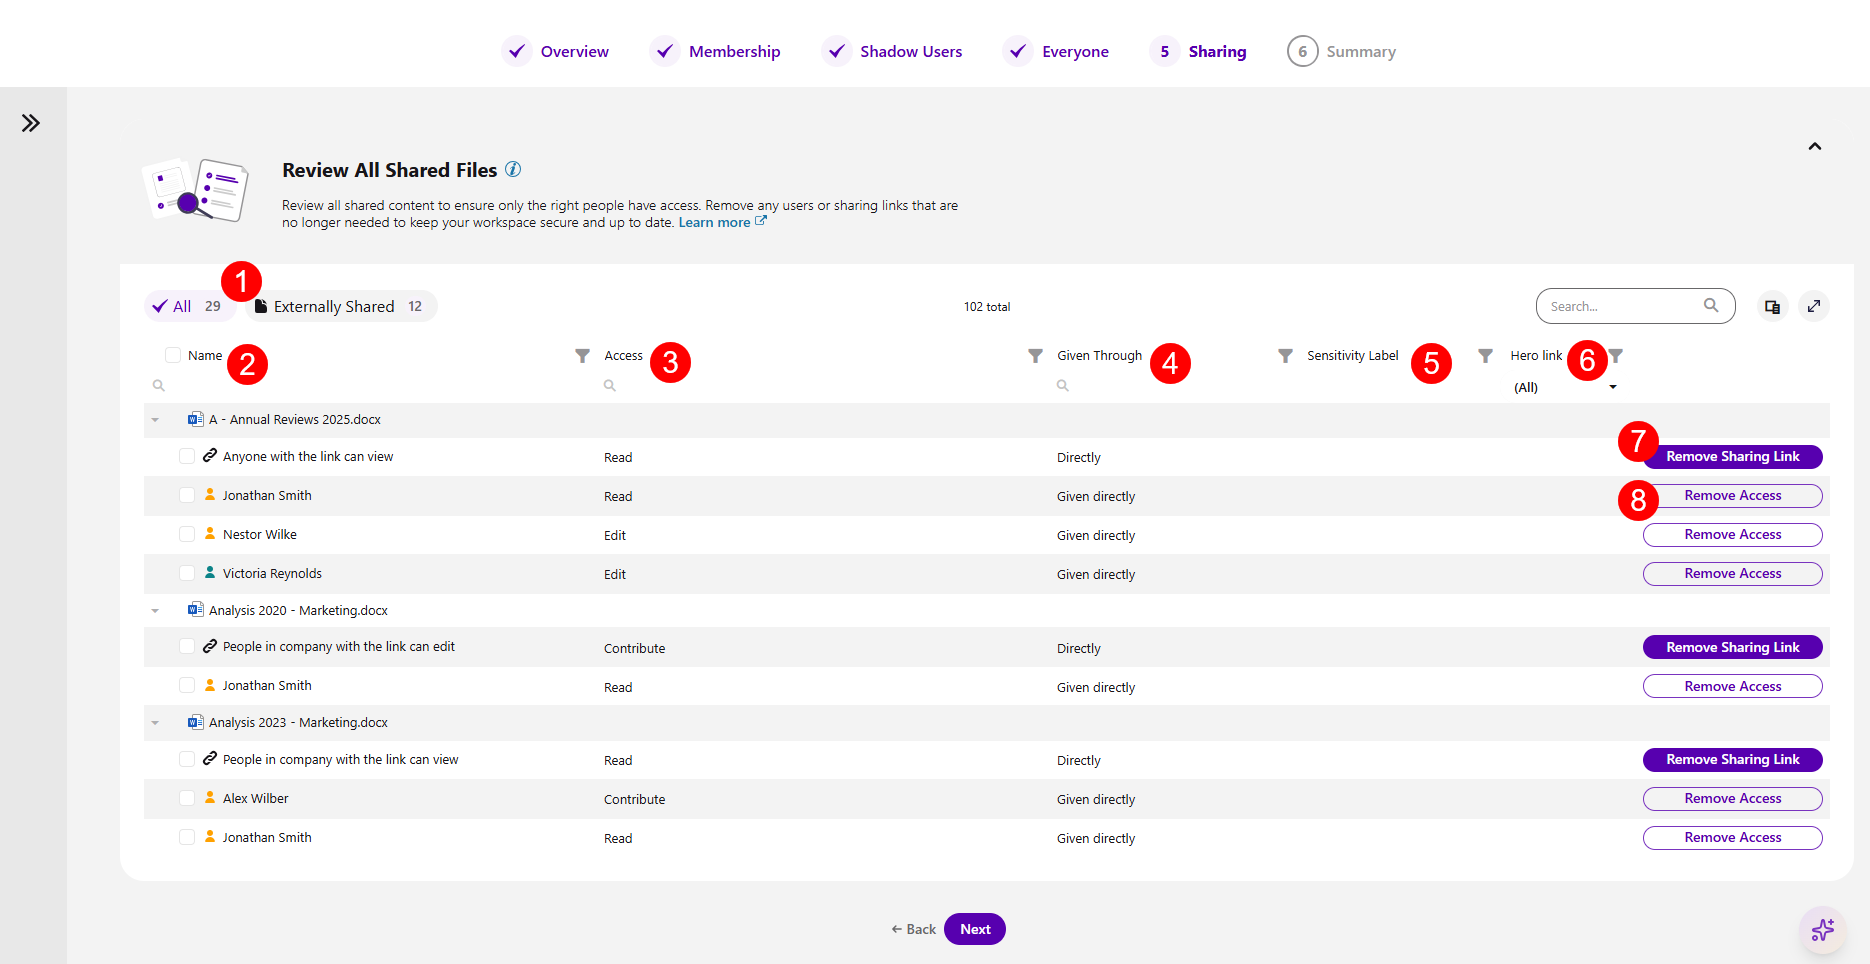
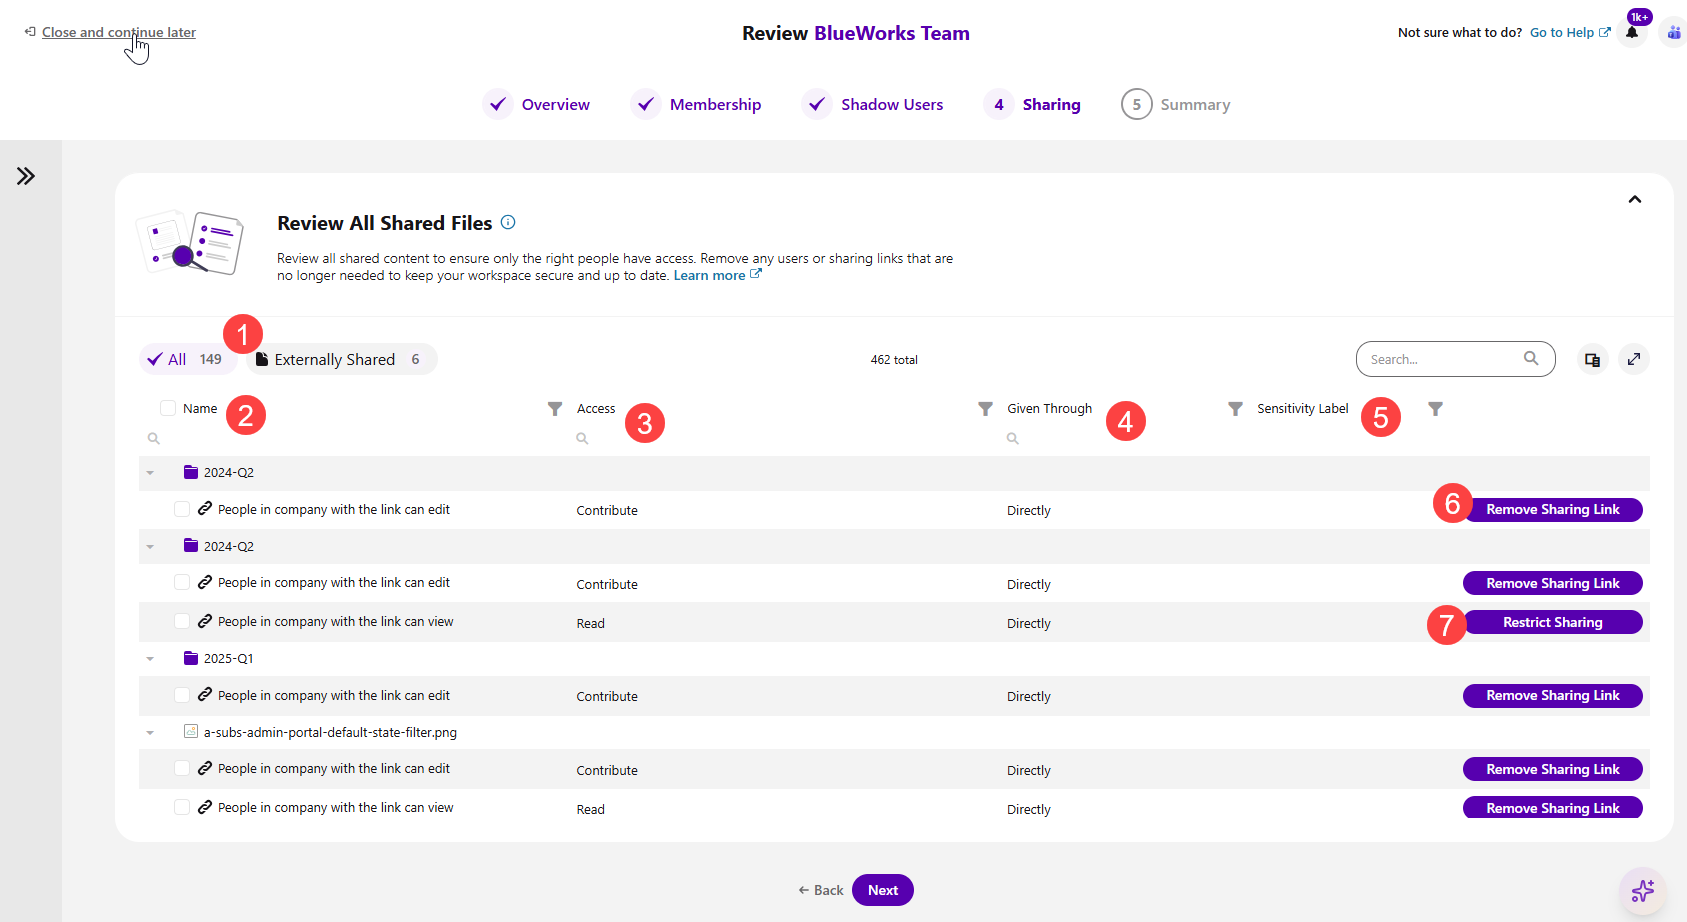
screens except unused

diff --git a/docs/point-collaborators/workspace-review/sharing-step.md b/docs/point-collaborators/workspace-review/sharing-step.md
@@ -30,7 +30,7 @@ On the task overview screen, you can find information on what is expected of you
 **Please note the following:**
 * If there are no Sharing Links to report, this step in the review is automatically skipped. Each section that does not have data to report is automatically skipped. 
  
-* Since SharePoint does not allow deleting a hero link, running **Remove Sharing Link** on a hero link switches its audience to **Specific people** instead of removing the link.
+* Since SharePoint does not allow deleting a hero/main link, you can only run the **Restrict Sharing** action on hero links, which removes access for everyone except the people you shared the link with directly.
   * [For more details, take a look at the Hero Links article.](../../reporting/hero-links.md)
 
 :::
@@ -87,7 +87,7 @@ The columns available are:
 :::info
 
 **Please note!**  
-Since SharePoint does not allow deleting a hero link, running **Remove Sharing Link** on a hero link switches its audience to **Specific people** instead of removing the link.
+Since SharePoint does not allow deleting a hero/main link, you can only run the **Restrict Sharing** action on main links, which removes access for everyone except the people you shared the link with directly.
 
 :::
 
@@ -102,25 +102,26 @@ On the **Links Shared with Anyone** section, you can review **anyone links to en
 On this screen, you can find the following:
 
 * **Remove All (1)** action button next to the name of the workspace, which removes access to all links shared with anyone
+* **Restrict All (2)** action button, which restricts sharing on main links so that only people who were already added retain access
 
 The columns available are: 
-* **Name (2)** of the content 
-* **Link Type (3)** - the level of sharing given through the link, for example, view-only, password-protected (edit), etc.
-* **Expiration Date (4)** - shows when the link is set to expire
-* **Last Used (5)** - the date the content was last used
-* **Sensitivity label (6)** - shows if there is a sensitivity label assigned to the content
-* **Created On (7)** - shows when the content was originally created
-* **Recommendation (8)** - this section provides a recommendation from Syskit Point on what actions should be taken if there are any notable recommendations to be made. The following recommendation could be suggested:
-   * **Expired Links** - expired sharing links are no longer valid, you can safely remove them to reduce clutter and keep your workspace clean and secure 
+* **Name (3)** - the name of the content
+* **Link Type (4)** - the level of sharing given through the link, for example, view-only, password-protected (edit), etc.
+* **Expiration Date (5)** - shows when the link is set to expire
+* **Last Used (6)** - the date the content was last used
+* **Sensitivity Label (7)** - shows if there is a sensitivity label assigned to the content
+* **Link Created On (8)** - shows when the link was created
+* **Recommendation (9)** - this section provides a recommendation from Syskit Point on what actions should be taken if there are any notable recommendations to be made. The following recommendations could be suggested:
+   * **Expired Link** - expired sharing links are no longer valid, so you can remove them to reduce clutter and keep your workspace clean and secure
    * **Unused Link** - unused links are links that haven't been used in the last 30 days
-* **Hero link (9)** - identifies Microsoft's default per-item sharing link (the new sharing experience) and distinguishes it from classic sharing links
 * The **Remove Sharing Link (10)** action
   * Clicking this action opens the Remove Sharing Link modal, where you need to confirm the removal of the sharing link
+* The **Restrict Sharing (11)** action, which restricts sharing so that only people who were already added keep access
 
 :::info
 
 **Please note!**  
-Since SharePoint does not allow deleting a hero link, running **Remove Sharing Link** on a hero link switches its audience to **Specific people** instead of removing the link.
+Since SharePoint does not allow deleting a hero/main link, you can only run the **Restrict Sharing** action on main links, which removes access for everyone except the people you shared the link with directly.
 
 :::
 
@@ -135,26 +136,27 @@ On the **Links Shared with People in Your Organization** section, you can review
 On this screen, you can find the following:
 
 * **Remove All (1)** action button next to the name of the workspace, which removes access to all links shared with people in your organization
+* **Restrict All (2)** action button, which restricts sharing on applicable links so that only people who were already added keep access
 
 The columns available are: 
 
-* **Name (2)** - of the content 
-* **Company-Wide Link Type (3)** - the level of sharing given through the link, for example, can edit, view-only, etc.
-* **Expiration Date (4)** - shows when the link is set to expire
-* **Last Used (5)** - shows when the link was last used
-* **Sensitivity label (6)** - shows if there is a sensitivity label assigned to the content
-* **Created On (7)** - shows when the content was originally created
-* **Recommendation (8)** - this section provides a recommendation from Syskit Point on what actions should be taken if there are any notable recommendations to be made. The following recommendation could be suggested:
-   * **Expired Links** - expired sharing links are no longer valid, you can safely remove them to reduce clutter and keep your workspace clean and secure 
+* **Name (3)** - the name of the content
+* **Company-Wide Link Type (4)** - the level of sharing given through the link, for example, can edit, view-only, etc.
+* **Expiration Date (5)** - shows when the link is set to expire
+* **Last Used (6)** - shows when the link was last used
+* **Sensitivity Label (7)** - shows if there is a sensitivity label assigned to the content
+* **Link Created On (8)** - shows when the link was created
+* **Recommendation (9)** - this section provides a recommendation from Syskit Point on what actions should be taken if there are any notable recommendations to be made. The following recommendations could be suggested:
+   * **Expired Link** - expired sharing links are no longer valid, so you can remove them to reduce clutter and keep your workspace clean and secure
    * **Unused Link** - unused links are links that haven't been used in the last 30 days
-* **Hero link (9)** - identifies Microsoft's default per-item sharing link (the new sharing experience) and distinguishes it from classic sharing links
-* **Remove Sharing Link (10)** action
+* The **Remove Sharing Link (10)** action
   * Clicking this action opens the Remove Sharing Link modal, where you need to confirm the removal of the sharing link
+* The **Restrict Sharing (11)** action, which restricts sharing so that only people who were already added keep access
 
 :::info
 
 **Please note!**  
-Since SharePoint does not allow deleting a hero link, running **Remove Sharing Link** on a hero link switches its audience to **Specific people** instead of removing the link.
+Since SharePoint does not allow deleting a hero/main link, you can only run the **Restrict Sharing** action on main links, which removes access for everyone except the people you shared the link with directly.
 
 :::
 
@@ -173,28 +175,22 @@ If the Review All Shared Files option was selected for this policy, after clicki
 
 Here you can find the information: 
 
-* On the left side, there are three **filters (1)** you can use to view the list with:
-  * **All** files 
-  * **Internal** shows only internally shared files
-  * **External** shows only externally shared files
+* Use the **filters (1)** on the left to view **All** files or only **Externally Shared** files
 
 The columns available are: 
 
-* **Name (2)** - of the files 
+* **Name (2)** - the name of the file or folder
 * **Access (3)** - the level of access given for that file
 * **Given Through (4)** - shows how the file was shared
-* **Sensitivity label (5)** - shows if there is a sensitivity label assigned to the file
-* **Hero link (6)** - identifies Microsoft's default per-item sharing link (the new sharing experience) and distinguishes it from classic sharing links
-* **Remove Sharing Link (7)** action
+* **Sensitivity Label (5)** - shows if there is a sensitivity label assigned to the file
+* The **Remove Sharing Link (6)** action
   * Clicking this action opens the Remove Sharing Link modal, where you need to confirm the removal of the sharing link
-* **Remove Access (8)** action
-  * Clicking this opens the Remove Access modal, where you need to confirm the removal of access for this user
-  * This action removes access for that specific user to the file that was shared
+* The **Restrict Sharing (7)** action, which restricts sharing so that only people who were already added keep access
 
 :::info
 
 **Please note!**  
-Since SharePoint does not allow deleting a hero link, running **Remove Sharing Link** on a hero link switches its audience to **Specific people** instead of removing the link.
+Since SharePoint does not allow deleting a hero/main link, you can only run the **Restrict Sharing** action on main links, which removes access for everyone except the people you shared the link with directly.
 
 :::
 

diff --git a/docs/reporting/hero-links.md b/docs/reporting/hero-links.md
@@ -59,8 +59,7 @@ The following site metrics are also affected by the new sharing model:
 :::info
 
 **Please note!**  
-* Since SharePoint does not allow deleting a main link, running **Remove Sharing Link** on a main link switches its audience to **Specific people** instead of removing the link, so only people you shared the link with directly still have access. 
-* The **Remove Access** and **Restrict Sharing** actions also work on main links. 
+* Since SharePoint does not allow deleting a hero/main link, you can only run the **Restrict Sharing** action on main links, which removes access for everyone except the people you shared the link with directly.
 * **Restrict Sharing** applies to organization-wide and Anyone main links and reverts their sharing so that only people who were already added keep access; it is available from the **Sharing Links**, **Permissions Matrix**, and **User Access** reports.
 
 :::

diff --git a/docs/reporting/external-sharing-reports.md b/docs/reporting/external-sharing-reports.md
@@ -184,7 +184,7 @@ The following actions can be performed within the report:
 :::info
 
 **Please note!**  
-Since SharePoint does not allow deleting a hero link, running **Remove sharing link** on a hero link switches its audience to **Specific people** instead of removing the link.
+Since SharePoint does not allow deleting a hero/main link, you can only run the **Restrict Sharing** action on main links, which removes access for everyone except the people you shared the link with directly.
 
 :::
 
